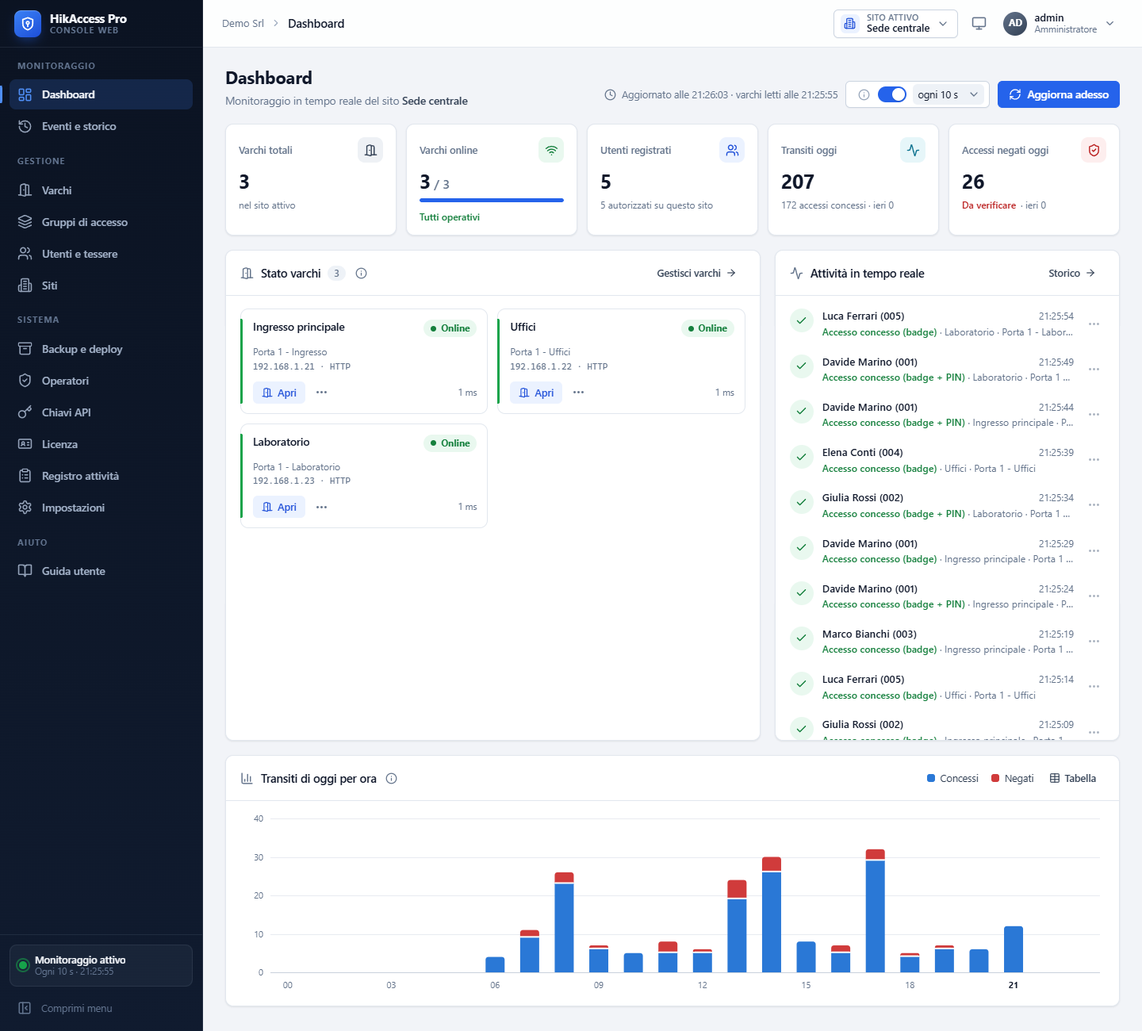
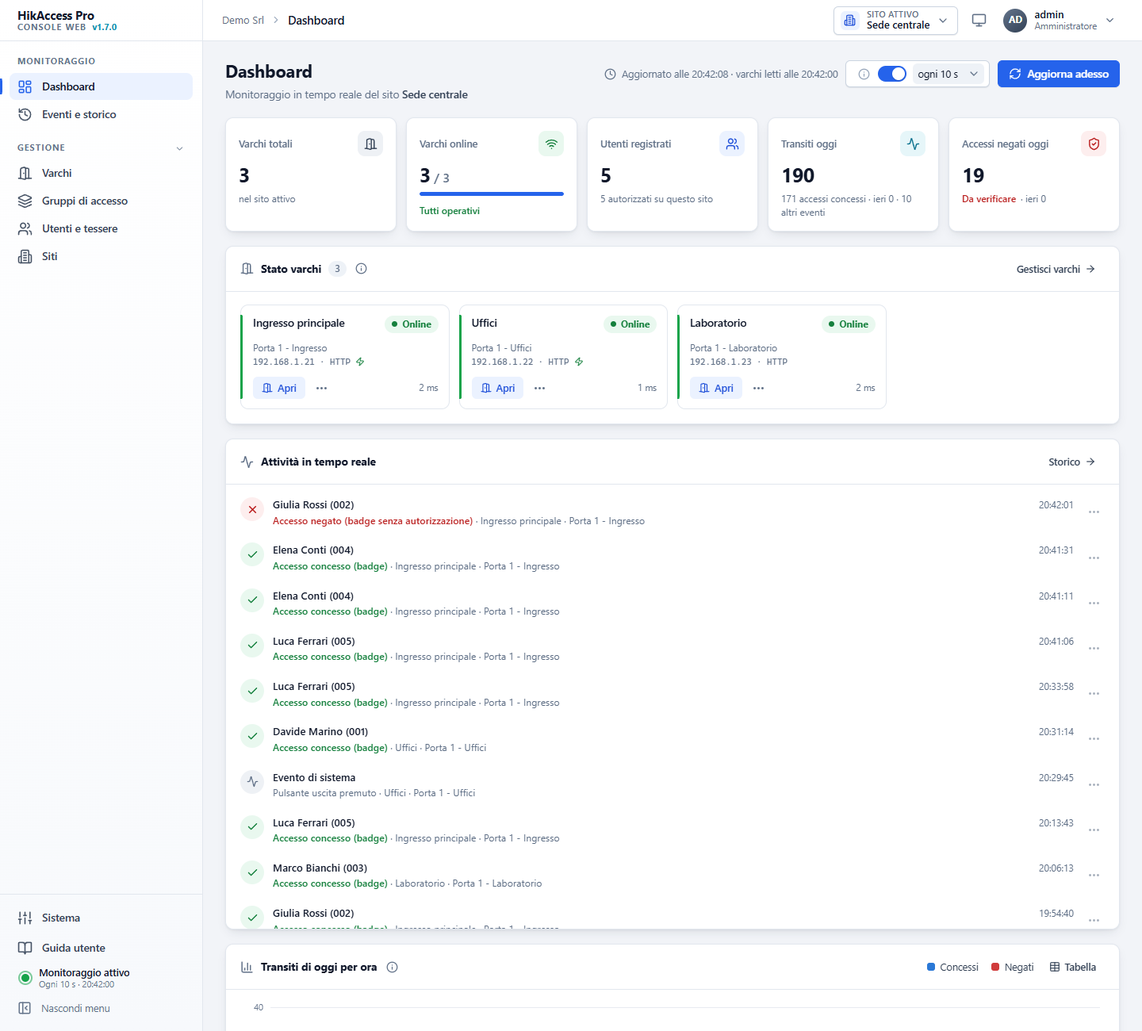
1.7.0: festività, notifiche Telegram, nuova grafica, Scarica e installa
Presentazione con notifiche Telegram e festività, nuove immagini (notifiche, festività, Sistema) e copertina,
licenza con le notifiche Telegram, nota sui marchi Hikvision e Telegram; guida utente 1.7.0.

diff --git a/docs/guida-utente.md b/docs/guida-utente.md
@@ -3,7 +3,7 @@
 [← Torna alla presentazione](../README.md) · [Scarica il setup](https://github.com/brn78/HikAccess-Pro-Web/releases/latest)
 
 > [!NOTE]
-> È la stessa guida che si apre nella console con <kbd>F1</kbd> (menu **Guida utente**), aggiornata alla versione **1.6.7**. Nella console le icone <b>(i)</b> accanto ai campi rimandano direttamente al paragrafo giusto.
+> È la stessa guida che si apre nella console con <kbd>F1</kbd> (menu **Guida utente**), aggiornata alla versione **1.7.0**. Nella console le icone <b>(i)</b> accanto ai campi rimandano direttamente al paragrafo giusto.
 
 ## Indice
 
@@ -18,6 +18,7 @@
 - [Dashboard](#dashboard)
 - [Eventi e storico](#eventi)
 - [Operazioni in background](#operazioni)
+- [Notifiche Telegram](#notifiche)
 - [Backup, ripristino e deploy](#backup)
 - [Sistema](#sistema)
 - [Profilo e sicurezza](#profilo)
@@ -74,7 +75,8 @@ Un amministratore può reimpostarla da **Operatori**. Se a non ricordare la pass
 
 ### <a id="interfaccia-menu"></a>Menu laterale e barra superiore
 
-- Il **menu laterale** è diviso in Monitoraggio, Gestione, Sistema (solo amministratori) e Aiuto. In alto, accanto a «Console web», c'è la **versione in uso**. Il gruppo **Sistema** resta chiuso: si apre con un clic sul titolo (⌄ nel menu compresso) e da solo quando sei su una delle sue pagine; un pallino sul titolo segnala una nuova versione. Il pulsante **Comprimi menu** in basso lo riduce alle sole icone; su telefono si apre con ☰. In fondo, il riquadro **Monitoraggio varchi** mostra se la scansione automatica è attiva e quando è avvenuta l'ultima. Agli amministratori, sopra, un riquadro segnala la [licenza](#sistema-licenza) quando serve attenzione: versione gratuita, varchi sospesi, licenza non valida o in scadenza.
+- Il **menu laterale** ha in alto **Monitoraggio** ( Dashboard, Eventi e storico) e **Gestione** ( Varchi, Gruppi, Utenti e tessere, Siti). Il gruppo Gestione si chiude con un clic sul titolo ⌄: il browser ricorda la scelta, e il gruppo si riapre da solo quando arrivi su una sua pagina. Accanto a «Console web» c'è la **versione in uso**.
+- In fondo al menu: **Sistema** ⚙ (solo amministratori) apre la [pagina con le funzioni di amministrazione](#sistema); un pallino sull'icona segnala una nuova versione o una [licenza](#sistema-licenza) da guardare (rosso se non è valida). Poi **Guida utente** 📖, la riga **Monitoraggio varchi** (scansione automatica attiva e ultima lettura; clic per la Dashboard) e **Nascondi menu** , che riduce il menu alle sole icone (con il monogramma «HA»). Il browser ricorda la scelta, a parte per le finestre strette, dove il menu parte ridotto; su telefono il menu si apre con ☰.
 - Nella **barra superiore** trovi il nome dell'impianto e della pagina, il contatore delle [operazioni in corso](#operazioni), il **selettore del sito attivo**, il pulsante del **tema** (chiaro, scuro o automatico come il sistema) e il menu con il tuo nome (profilo, impostazioni, guida, uscita).
 
 ### <a id="interfaccia-sito"></a>Il sito attivo
@@ -88,7 +90,7 @@ Dashboard, Varchi, Gruppi ed Eventi mostrano solo il sito attivo. La pagina Uten
 - Le schede di modifica si aprono in un **pannello laterale**; <kbd>Esc</kbd>, **Annulla** o un clic fuori le chiudono senza salvare. Se hai cambiato qualcosa, la console chiede prima conferma (**Chiudi senza salvare** oppure **Continua a modificare**), anche quando cambi pagina con il menu, con <kbd>F1</kbd> o con il tasto Indietro del browser.
 - **Selezione multipla** (pagine Utenti e Varchi, per amministratori e operatori): la casella all'inizio della riga la seleziona, quella nell'intestazione seleziona tutte le righe visualizzate; tenendo premuto <kbd>Maiusc</kbd> si seleziona l'intervallo dall'ultima casella toccata. Con almeno una riga scelta compare sopra la tabella la barra delle **operazioni sulle righe selezionate**, con il loro numero e **Deseleziona**. La selezione vale per le righe visualizzate: quelle tolte da un filtro o dalla ricerca escono dalla selezione, così un'operazione non tocca mai righe che non vedi.
 - Le conferme e gli esiti compaiono come **notifiche** in alto a destra; gli errori restano più a lungo. Alcune notifiche hanno un pulsante (**Vedi log**, **Dettagli**) per aprire il resoconto completo.
-- I testi di esito, dettaglio e diagnostica (per esempio l'esito di **Sincronizza orario** varco per varco) hanno in alto a destra il pulsante per copiarli negli appunti.
+- I testi di esito, dettaglio e diagnostica (per esempio l'esito di **Sincronizza orario** varco per varco) hanno in alto a destra il pulsante ⧉ per copiarli negli appunti.
 - I campi contrassegnati da \* sono obbligatori.
 
 ### <a id="interfaccia-scorciatoie"></a>Scorciatoie da tastiera
@@ -210,7 +212,7 @@ Ogni comando viene registrato nel [registro attività](#sistema-registro) con l'
 
 - **Diagnostica e test connessione** verifica il varco e mostra canale, seriale, firmware e le informazioni lette dal dispositivo: parametri della porta (tempo relè, funzione **prima tessera**), stato della porta, tessere registrate e stato degli [eventi in tempo reale](#varchi-tempo-reale) (da quando è aperto il collegamento, quanti eventi di accesso sono arrivati dal flusso e l'ora dell'ultimo; se il terminale manda nel flusso qualcosa che la console non riconosce, ne mostra l'inizio: copialo quando segnali il problema); se il varco non risponde, il motivo preciso dell'errore. Riabilita anche un tentativo dopo un rifiuto delle credenziali.
 - **Messaggi di errore dei dispositivi**: i codici di errore dell'SDK Hikvision e delle risposte ISAPI sono tradotti in italiano (es. «memoria utenti del dispositivo piena», «numero tessera già presente sul dispositivo»), con il codice originale tra parentesi quando serve all'assistenza.
-- **Sincronizza orologio con il server** imposta data e ora del dispositivo uguali a quelle del server; sui varchi HTTP imposta anche il **fuso orario con le regole dell'ora legale** (le versioni precedenti alla 1.6 scrivevano un fuso fisso, per cui d'estate il dispositivo restava indietro di un'ora). Un dispositivo che segue già un server NTP ed è in orario resta in NTP: si corregge solo il fuso. Un orologio sbagliato produce eventi con l'ora errata e può far rifiutare utenti con validità a date o fasce orarie: controllalo dopo un'interruzione di corrente. Il pulsante **Sincronizza orario** in alto nella pagina Varchi lo fa su tutti i varchi del sito in una volta: una notifica riassume l'esito e **Dettagli** mostra il risultato di ogni varco, da copiare con .
+- **Sincronizza orologio con il server** imposta data e ora del dispositivo uguali a quelle del server; sui varchi HTTP imposta anche il **fuso orario con le regole dell'ora legale** (le versioni precedenti alla 1.6 scrivevano un fuso fisso, per cui d'estate il dispositivo restava indietro di un'ora). Un dispositivo che segue già un server NTP ed è in orario resta in NTP: si corregge solo il fuso. Un orologio sbagliato produce eventi con l'ora errata e può far rifiutare utenti con validità a date o fasce orarie: controllalo dopo un'interruzione di corrente. Il pulsante **Sincronizza orario** in alto nella pagina Varchi lo fa su tutti i varchi del sito in una volta: una notifica riassume l'esito e **Dettagli** mostra il risultato di ogni varco, da copiare con ⧉.
 - Orologio, comandi porta, stato porta e diagnostica si mettono **in fila** con le altre richieste allo stesso controller (i DS-K2602T/K2604T ne servono una alla volta e una ricerca nel registro eventi può durare diversi secondi): la lettura degli eventi cede il passo e la richiesta aspetta il proprio turno invece di andare in timeout.
 - **Copia indirizzo IP** copia l'IP negli appunti, per aprire l'interfaccia web del terminale.
 
@@ -271,7 +273,21 @@ Fuori fascia la tessera viene rifiutata dal varco e l'evento compare tra gli acc
 - Sui controller l'orario di ogni gruppo occupa un **modello orario** numerato (dal 2 in su; il modello 1 è quello "sempre" di fabbrica): se l'impianto aveva modelli creati con iVMS-4200, quelli con lo stesso numero vengono sostituiti.
 
 > [!NOTE]
-> Le fasce seguono l'orologio del controller: se l'ora è sbagliata usa **Sincronizza orologio con il server** dal menu del varco. Le festività non sono gestite: nei giorni festivi valgono le fasce del giorno della settimana.
+> Le fasce seguono l'orologio del controller: se l'ora è sbagliata usa **Sincronizza orologio con il server** dal menu del varco.
+
+### <a id="gruppi-festivita"></a>Festività e chiusure
+
+Il pulsante **Festività** in alto nella pagina apre il **calendario delle festività**, unico per tutti i siti:
+
+- **Festività nazionali italiane**: calcolate da sole ogni anno (Capodanno, Epifania, Pasqua e lunedì dell'Angelo, 25 aprile, 1° maggio, 2 giugno, Ferragosto, San Francesco d'Assisi il 4 ottobre, Ognissanti, Immacolata, Natale e Santo Stefano);
+- **Santo patrono**: nome, giorno e mese della festa della località, ogni anno;
+- **Altre chiusure**: ponti, ferie aziendali o giorni singoli, dal giorno indicato a quello di fine compreso; con **Ogni anno** le stesse date si ripetono tutti gli anni.
+
+Nella scheda di un gruppo con **Giorni e fasce orarie**, la riga **Festività** dice se i membri restano fuori nei giorni del calendario (**Chiuso nelle festività**, attivo di partenza) oppure se in quei giorni valgono le fasce del giorno della settimana. Un gruppo **Sempre** entra anche nei festivi.
+
+- Sui controller le festività diventano **piani festivi** (numeri da 1) riuniti nel **gruppo festivo 1**, che il modello orario del gruppo richiama. Salvando il calendario vengono scritte subito, con l'esito in una notifica.
+- Si scrivono le **prossime ricorrenze** (al massimo 16 periodi; giorni consecutivi come Natale e Santo Stefano contano come uno). Ogni giorno la console sostituisce le festività passate con quelle dell'anno dopo.
+- L'elenco **Prossime festività sui varchi** nel calendario mostra le date effettivamente scritte.
 
 ## <a id="utenti"></a>Utenti, tessere e PIN
 
@@ -297,7 +313,7 @@ La scheda di una persona si apre sempre con i dati attuali del server, anche se 
 
 ### <a id="utenti-pin"></a>PIN
 
-Il **PIN tastiera** è un codice da 4 a 8 cifre usato sui terminali con tastierino. È il terminale, con la propria modalità di autenticazione (solo tessera, tessera + PIN, PIN...), a decidere se e quando richiederlo: la console si limita a inviarlo insieme alla persona. Il PIN è visibile solo ad amministratori e operatori (pulsante ).
+Il **PIN tastiera** è un codice da 4 a 8 cifre usato sui terminali con tastierino. È il terminale, con la propria modalità di autenticazione (solo tessera, tessera + PIN, PIN...), a decidere se e quando richiederlo: la console si limita a inviarlo insieme alla persona. Il PIN è visibile solo ad amministratori e operatori (pulsante 👁).
 
 ### <a id="utenti-validita"></a>Validità e accesso
 
@@ -424,7 +440,7 @@ La scheda **Archivio e manutenzione** mostra quanti eventi sono archiviati, lo s
 
 Gli invii ai varchi (utente, più utenti, gruppo, deploy, invio a varchi scelti), le eliminazioni, le revoche in sospeso e la ricezione dell'anagrafica sono eseguiti dal server **in background**: puoi continuare a lavorare, e in alto compare il contatore **operazioni in corso**. Al termine arriva una **notifica con l'esito** (verde se tutto è riuscito, gialla o rossa con gli errori, che resta visibile più a lungo) e le pagine aperte si aggiornano da sole.
 
-La **finestra dell'operazione** si apre solo quando la chiedi: con **Vedi log** nella notifica finale, con **Mostra** nell'avviso di avvio, dal contatore in alto mentre è in corso oppure dalle operazioni recenti. Mostra barra di avanzamento, contatori di riusciti ed errori e il **log**, una riga per persona e controller; il pulsante in alto a destra del log lo copia negli appunti, per esempio per inviarlo all'assistenza.
+La **finestra dell'operazione** si apre solo quando la chiedi: con **Vedi log** nella notifica finale, con **Mostra** nell'avviso di avvio, dal contatore in alto mentre è in corso oppure dalle operazioni recenti. Mostra barra di avanzamento, contatori di riusciti ed errori e il **log**, una riga per persona e controller; il pulsante ⧉ in alto a destra del log lo copia negli appunti, per esempio per inviarlo all'assistenza.
 
 Le operazioni verso controller diversi procedono in parallelo; quelle verso lo stesso controller si mettono in fila, e la lettura degli eventi cede il passo alle scritture. Ogni persona viene riletta dall'anagrafica al momento di scriverla: una modifica fatta mentre l'operazione è in corso non viene sovrascritta con dati vecchi, e una persona eliminata nel frattempo non viene riscritta.
 
@@ -433,6 +449,25 @@ Le operazioni verso controller diversi procedono in parallelo; quelle verso lo s
 - Le operazioni concluse restano consultabili, con il loro log, in **Backup e deploy → Operazioni recenti** (le ultime 40 dall'avvio del server). Gli operatori vedono le proprie, gli amministratori tutte.
 
 Un varco offline durante un'operazione viene segnalato come errore in quella riga: la console conserva comunque la configurazione corretta, e basta ripetere l'invio (o un deploy) quando il varco torna raggiungibile. Le **revoche** non riuscite (tessere tolte, persone disabilitate o eliminate) non dipendono da te: restano [in sospeso](#utenti-revoche) e si ritentano da sole.
+
+## <a id="notifiche"></a>Notifiche Telegram
+
+Gli operatori possono ricevere sul telefono, con **Telegram**, un messaggio per gli eventi che scelgono: accessi negati, porte forzate, porte aperte troppo a lungo, allarmi e manomissioni, varchi non raggiungibili, comandi porta da remoto, anche accessi concessi. Funziona con un bot della console, una chat collegata per ogni operatore e le preferenze di ciascuno.
+
+> [!NOTE]
+> Le notifiche Telegram sono una funzione della [licenza](#sistema-licenza), come il servizio REST: non sono comprese nella versione gratuita. Senza, il bot resta configurato ma non legge né invia messaggi.
+
+### <a id="notifiche-telegram"></a>Configurare il bot e collegare la chat
+
+1. **Il bot** (una volta, un amministratore): in Telegram apri **@BotFather**, scrivi `/newbot` e scegli nome e nome utente (deve finire con «bot»). Copia il **token** che ti risponde in **Sistema → Impostazioni**, riquadro **Notifiche Telegram**, e salva: la console chiede a Telegram il nome del bot e conserva il token cifrato. Facoltativo: l'**indirizzo della console da fuori** (es. quello di KeenDNS) aggiunge a ogni messaggio il collegamento «Apri nella console».
+2. **La chat** (ogni operatore, per sé): **Profilo e sicurezza**, riquadro **Notifiche Telegram**, **Collega Telegram**. Inquadra il QR con il telefono (o apri il link), premi **Avvia** nella chat del bot e scrivi il **PIN di 6 cifre** mostrato nella console. Il codice vale 10 minuti e una volta sola; il PIN non è nel QR né nel link, e tre PIN sbagliati annullano il collegamento.
+3. **Che cosa ricevere**: **Quali eventi** (caselle), **Su quali varchi** (tutti o solo alcuni, di tutti i siti) e **Per quali persone** (tutte o solo alcune: vale per gli accessi concessi e negati, mentre porte forzate, allarmi e varchi non raggiungibili arrivano comunque). **Salva le notifiche**, poi **Mandami un messaggio di prova**.
+
+- Il messaggio arriva appena il varco registra l'evento: tipo, varco, persona e tessera, data e ora. Più di 4 eventi insieme arrivano in un solo messaggio riassuntivo. Gli eventi recuperati dal registro dopo un fermo del server non vengono notificati.
+- **Varco non raggiungibile**: dopo un minuto senza risposta del controller, e un secondo messaggio quando torna raggiungibile.
+- Gli amministratori impostano le notifiche degli altri da **Sistema → Operatori**, menu dell'operatore, **Notifiche Telegram**.
+- Nella chat, `/stop` scollega la chat; si scollega da sola anche se blocca il bot. Gli account disabilitati non ricevono messaggi.
+- Il server legge i messaggi del bot ogni 25 secondi circa («long polling»): non servono porte aperte sul router né HTTPS, solo l'accesso a Internet verso `api.telegram.org`. Il bot va usato solo dalla console: se un altro programma legge i suoi messaggi, la console lo segnala.
 
 ## <a id="backup"></a>Backup, ripristino e deploy
 
@@ -469,6 +504,8 @@ Oltre all'esportazione, includi nei backup del server l'intera cartella dati (ve
 
 ## <a id="sistema"></a>Sistema
 
+La voce **Sistema** ⚙ in fondo al menu (solo amministratori) apre una pagina a schede: **Impostazioni**, **Operatori**, **Licenza**, **Backup e deploy**, **Chiavi API** e **Registro attività**. In cima, quando serve, gli avvisi: nuova versione disponibile, licenza non valida o in scadenza, varchi sospesi. Sulle pagine di amministrazione la voce Sistema resta evidenziata.
+
 ### <a id="sistema-operatori"></a>Operatori
 
 **Operatori**: gli account della console. Per ogni account: nome utente (non modificabile), nome e cognome, [ruolo](#ruoli), stato abilitato/disabilitato, ultimo accesso con indirizzo, data dell'ultimo cambio password.
@@ -477,6 +514,7 @@ Oltre all'esportazione, includi nei backup del server l'intera cartella dati (ve
 - **Reimposta password**: per chi l'ha dimenticata; le sue sessioni aperte vengono chiuse.
 - **Disabilita account**: blocca l'accesso senza cancellare lo storico delle operazioni; preferibile all'eliminazione per chi lascia l'azienda.
 - **Disattiva verifica in due passaggi**: per chi ha perso il telefono e i codici di recupero; l'operatore potrà riattivarla dal suo profilo. La colonna **Due passaggi** mostra chi l'ha attiva.
+- **Notifiche Telegram** ✈: quali eventi riceve l'operatore sul telefono, su quali varchi e per quali persone, e lo stato della sua chat (vedi [Notifiche Telegram](#notifiche-telegram)). Collegare la chat spetta all'operatore, dal suo profilo; da qui la si può scollegare.
 - **Elimina account**: rimuove l'account; il registro attività conserva le operazioni già eseguite.
 - Il proprio account non può disabilitarsi né cambiare ruolo da qui; la propria password si cambia da **Profilo e sicurezza**. Deve restare almeno un amministratore abilitato.
 
@@ -521,17 +559,17 @@ e in `secrets.yaml` la riga `hikaccess_api: "Bearer hap_…"` con la chiave. Dop
 
 ### <a id="sistema-licenza"></a>Licenza e attivazione
 
-**Licenza** (solo amministratori). Senza chiave di attivazione la console è la **versione gratuita**: **1 sito** e **2 varchi**, senza il [servizio REST](#sistema-chiavi-api); tutte le altre funzioni (utenti, tessere, PIN, gruppi, eventi, operatori, backup, accesso remoto) sono complete. Una **licenza** amplia siti e varchi e può comprendere il servizio REST; può essere senza scadenza oppure a tempo, come la prova di 30 giorni.
+**Licenza** (solo amministratori). Senza chiave di attivazione la console è la **versione gratuita**: **1 sito** e **2 varchi**, senza il [servizio REST](#sistema-chiavi-api) e senza le [notifiche Telegram](#notifiche-telegram); tutte le altre funzioni (utenti, tessere, PIN, gruppi, festività, eventi, operatori, backup, accesso remoto) sono complete. Una **licenza** amplia siti e varchi e può comprendere il servizio REST e le notifiche Telegram; può essere senza scadenza oppure a tempo, come la prova di 30 giorni.
 
 - **Stato della licenza**: versione gratuita oppure licenza attivata, con intestatario, numero, limiti e scadenza; sotto, siti e varchi in uso rispetto a quelli consentiti.
 - **Codice macchina**: identifica il server, e la chiave di attivazione vale solo per quel codice. Non cambia con riavvii, aggiornamenti, nome o indirizzo IP del server; cambia se reinstalli Windows o sposti il programma su un altro computer.
-- **Richiedi l'attivazione**: indica la ragione sociale (sarà l'intestatario della licenza), referente, telefono, un'eventuale email per la risposta, se chiedi una licenza o una prova di 30 giorni, quanti siti e varchi ti servono e se ti serve il servizio REST. **Scrivi l'email** apre il programma di posta con la richiesta pronta per **b.leonardi78@gmail.com**, già completa di codice macchina, versione e dati del server. Con la posta nel browser usa **Copia la richiesta** e incollala in un nuovo messaggio a quell'indirizzo.
+- **Richiedi l'attivazione**: indica la ragione sociale (sarà l'intestatario della licenza), referente, telefono, un'eventuale email per la risposta, se chiedi una licenza o una prova di 30 giorni, quanti siti e varchi ti servono e se ti servono il servizio REST e le notifiche Telegram. **Scrivi l'email** apre il programma di posta con la richiesta pronta per **b.leonardi78@gmail.com**, già completa di codice macchina, versione e dati del server. Con la posta nel browser usa **Copia la richiesta** e incollala in un nuovo messaggio a quell'indirizzo.
 - **Chiave di attivazione**: incolla la chiave ricevuta (inizia con `HAP1-`; va bene anche il testo dell'intera email) e premi **Attiva**. La console controlla che sia autentica, emessa per questo server e non scaduta, e applica subito i nuovi limiti. Nella stessa casella si inserisce la chiave nuova di un ampliamento o di un rinnovo.
 - **Rimuovi la licenza**: si torna alla versione gratuita, per esempio prima di trasferire la licenza su un altro server.
 
 **Oltre i limiti.** Senza la licenza adatta non si aggiungono siti o varchi oltre quelli consentiti e non si creano chiavi API: la console lo segnala con il collegamento **Vai alla pagina Licenza**. Se i varchi configurati sono più di quelli consentiti (licenza scaduta o rimossa, ripristino di un backup più grande), restano in uso i primi in ordine di ID dei primi siti e gli altri diventano **sospesi**: restano in elenco, ma non vengono monitorati, non ricevono comandi né utenti e non si leggono tessere da lì. Per sicurezza la revoca delle tessere tolte e l'eliminazione degli utenti raggiungono anche i varchi sospesi.
 
-Alla scadenza la console torna da sola ai limiti della versione gratuita, senza perdere configurazione ed eventi; il riquadro nel menu laterale avvisa gli amministratori negli ultimi 30 giorni. Attivazioni, chiavi rifiutate e rimozioni finiscono nel [registro attività](#sistema-registro) (categoria **Licenza**).
+Alla scadenza la console torna da sola ai limiti della versione gratuita, senza perdere configurazione ed eventi; il pallino sulla voce Sistema e la pagina Sistema avvisano gli amministratori negli ultimi 30 giorni. Attivazioni, chiavi rifiutate e rimozioni finiscono nel [registro attività](#sistema-registro) (categoria **Licenza**).
 
 > [!NOTE]
 > **Trasferire la licenza** su un altro server, o dopo aver reinstallato Windows: dalla pagina Licenza del server nuovo invia una richiesta e scrivi nelle note che si tratta di un trasferimento. La chiave nuova sarà emessa per il nuovo codice macchina.
@@ -547,8 +585,9 @@ Alla scadenza la console torna da sola ai limiti della versione gratuita, senza 
 - **Chiusura della sessione per inattività**: da 15 minuti a 7 giorni. Per un monitor sempre acceso usa un account in sola lettura e una durata lunga.
 - **Browser di fiducia dopo la verifica in due passaggi**: per quanti giorni (da 1 a 90, oppure "Mai") un browser segnato come di fiducia non richiede il codice OTP, e se la fiducia decade quando cambia l'indirizzo IP del browser. Vedi [Browser di fiducia](#profilo-2fa-fiducia).
 - **Accesso remoto**: i **proxy attendibili** e la verifica **Questa connessione**. Vedi [Accesso remoto e proxy](#sistema-accesso-remoto).
+- **Notifiche Telegram** ✈: il bot della console (token creato con @BotFather) e l'indirizzo della console da fuori per il collegamento «Apri nella console». Vedi [Notifiche Telegram](#notifiche-telegram).
 - **Informazioni di sistema**: versione, licenza, nome del server, avvio e tempo di attività, modalità (servizio di Windows o finestra), disponibilità dell'SDK Hikvision, cartella dati, conteggi della configurazione, ultima scansione e ultima pulizia. Sotto, il **grafico a ciambella del disco** della cartella dati: archivio eventi (passaggi e registro attività), altri dati della console (configurazione, backup, aggiornamenti caricati), altri file e programmi e, al centro, la percentuale di spazio libero; il collegamento porta all'archivio in Eventi e storico.
-- **Aggiornamento del programma**: versione installata, avviso delle nuove versioni con le novità e il collegamento per scaricare il setup, esito dell'ultimo aggiornamento e installazione di una nuova versione caricando il setup. L'interruttore **Avvisa quando esce una nuova versione** si salva con le altre impostazioni. Vedi [Aggiornare e disinstallare](#server-aggiornamento) e [Avviso delle nuove versioni](#server-avviso-versioni).
+- **Aggiornamento del programma**: versione installata, avviso delle nuove versioni con le novità, **Scarica e installa**, esito dell'ultimo aggiornamento e installazione di una nuova versione caricando il setup. L'interruttore **Avvisa quando esce una nuova versione** si salva con le altre impostazioni. Vedi [Aggiornare e disinstallare](#server-aggiornamento) e [Avviso delle nuove versioni](#server-avviso-versioni).
 
 ### <a id="sistema-accesso-remoto"></a>Accesso remoto e proxy
 
@@ -647,7 +686,16 @@ Per aggiornare esegui il nuovo setup sopra l'installazione esistente: il servizi
 
 Il setup di ogni versione si scarica dalla [pagina delle versioni](https://github.com/brn78/HikAccess-Pro-Web/releases) su GitHub; la console avvisa gli amministratori quando ne esce una nuova (vedi [Avviso delle nuove versioni](#server-avviso-versioni)).
 
-**Dalla console**: **Impostazioni → Aggiornamento del programma**, scegli il nuovo setup (`HikAccessWeb-<versione>-Setup.exe`) e conferma con la tua password. Il server controlla che sia il setup di HikAccess Pro Web, che la versione non sia precedente a quella installata e che il file sia **identico a quello pubblicato su GitHub** per quella versione (impronta SHA-256), poi lo installa. Se il server non raggiunge GitHub la verifica non è possibile e l'aggiornamento dalla console viene rifiutato: esegui il setup direttamente sul server, come amministratore di Windows. Il servizio resta fermo per circa un minuto e la console si ricarica da sola con la nuova versione. Per sicurezza, dato che il setup gira con i privilegi di sistema:
+**Scarica e installa**: quando esce una nuova versione, **Sistema → Impostazioni → Aggiornamento del programma** mostra il pulsante **Scarica e installa** ⬇. Confermi con la tua password e il server:
+
+1. scarica il setup dalla **pagina ufficiale** del programma su GitHub, con una barra di avanzamento;
+2. controlla che il file sia **completo** e **identico** a quello pubblicato (impronta SHA-256 indicata da GitHub), che sia il setup di HikAccess Pro Web e che la versione sia proprio quella annunciata;
+3. salva una **copia della configurazione** (casella attiva di partenza) nella cartella dati, sottocartella `backups`;
+4. avvia il setup: il servizio resta fermo per circa un minuto e la pagina si ricarica da sola con la nuova versione.
+
+Se uno dei controlli non va, il setup non parte e il motivo compare nella finestra e nel [registro attività](#sistema-registro). Riaprendo la pagina durante un aggiornamento, l'avanzamento riprende da dove era.
+
+**Caricando il setup**: in alternativa (per esempio se il server non raggiunge GitHub), scarica il setup sul tuo PC, scegli il file (`HikAccessWeb-<versione>-Setup.exe`) nello stesso riquadro e conferma con la tua password. Il server controlla che sia il setup di HikAccess Pro Web, che la versione non sia precedente a quella installata e che il file sia **identico a quello pubblicato su GitHub** per quella versione (impronta SHA-256), poi lo installa. Se il server non raggiunge GitHub la verifica non è possibile e l'aggiornamento dalla console viene rifiutato: esegui il setup direttamente sul server, come amministratore di Windows. Il servizio resta fermo per circa un minuto e la console si ricarica da sola con la nuova versione. Per sicurezza, dato che il setup gira con i privilegi di sistema:
 
 - solo gli **amministratori**, con la conferma della password;
 - solo da un PC della **rete locale** del server (o dalla VPN), aprendo la console con l'indirizzo interno: non tramite KeenDNS o un altro proxy. Se hai aperto la console in un altro modo, il riquadro mostra l'indirizzo interno come collegamento e il pulsante **Apri la console locale**, che apre in una nuova scheda la console locale direttamente su questo riquadro (dopo l'accesso, se serve);
@@ -659,11 +707,11 @@ L'esito dell'ultimo aggiornamento resta in Impostazioni; il log del setup è nel
 
 Una volta al giorno il server chiede a GitHub qual è l'ultima versione pubblicata di HikAccess Pro Web e la confronta con quella installata. Quando ne esce una nuova, gli **amministratori** vedono:
 
-- un **pallino** sulla voce **Impostazioni** del menu, finché la versione nuova non viene installata;
+- un **pallino** sulla voce **Sistema** del menu e un avviso in cima alla pagina Sistema, finché la versione nuova non viene installata;
 - un avviso al primo accesso, una volta per versione e per browser, con il collegamento **Vedi le novità**;
-- nel riquadro **Aggiornamento del programma**, la versione nuova con la data di pubblicazione, le **novità** e i pulsanti **Scarica il setup** e **Pagina della versione**, che aprono GitHub in un'altra scheda.
+- nel riquadro **Aggiornamento del programma**, la versione nuova con la data di pubblicazione, le **novità** e i pulsanti **Scarica e installa**, **Scarica il setup** e **Pagina della versione** (gli ultimi due aprono GitHub in un'altra scheda).
 
-Nulla si installa da solo: scarichi il setup sul tuo PC e lo carichi nello stesso riquadro, come descritto sopra. Sotto il pulsante trovi l'impronta **SHA-256** del file pubblicato, per chi vuole confrontarla con quella del file scaricato (in PowerShell: `Get-FileHash HikAccessWeb-<versione>-Setup.exe`).
+Nulla si installa da solo: l'installazione parte solo con **Scarica e installa** o caricando il setup, come descritto sopra. Sotto il pulsante trovi l'impronta **SHA-256** del file pubblicato, per chi vuole confrontarla con quella del file scaricato (in PowerShell: `Get-FileHash HikAccessWeb-<versione>-Setup.exe`).
 
 Il riquadro mostra anche quando è stato fatto l'ultimo controllo; **Controlla ora** lo ripete subito. Operatori e account in sola lettura non vedono l'avviso. La prima segnalazione di ogni versione finisce nel [registro attività](#sistema-registro) (categoria **Sistema**, «Nuova versione disponibile»).
 
@@ -912,6 +960,7 @@ Apri il Visualizzatore eventi di Windows, registro Applicazione, origine **HikAc
 - **Scansione**: Interrogazione periodica dei varchi da parte del server: stato online/offline e nuovi eventi.
 - **Eventi in tempo reale**: Collegamento permanente con il controller, che invia ogni passaggio appena avviene (HTTP: flusso di notifiche; SDK: armamento).
 - **Revoca in sospeso**: Tessera o persona da togliere da un controller che non rispondeva: la console la ritenta finché non riesce.
+- **Bot di Telegram**: Account automatico di Telegram creato con @BotFather: la console lo usa per inviare le notifiche agli operatori che hanno collegato la loro chat.
 - **Prima tessera (First Card)**: Funzione del controller per cui il primo badge abilitato lascia la porta sempre aperta (o abilita le altre tessere) fino a un nuovo passaggio o a un orario.
 - **Punto di ripresa**: Data e ora dell'ultimo evento letto da un controller: la scansione successiva riparte da lì, senza saltare eventi.
 - **Recupero eventi**: Lettura degli eventi persi durante un fermo del server, a partire dall'ultimo archiviato.

diff --git a/README.md b/README.md
@@ -6,6 +6,7 @@
   <a href="https://github.com/brn78/HikAccess-Pro-Web/releases/latest"><img alt="Ultima versione" src="https://img.shields.io/github/v/release/brn78/HikAccess-Pro-Web?label=versione&color=2563eb"></a>
   <img alt="Windows 10, 11 e Server 2016 o successivi" src="https://img.shields.io/badge/Windows-10%20%7C%2011%20%7C%20Server%202016%2B-0078D4?logo=windows&logoColor=white">
   <img alt="Hikvision ISAPI e SDK" src="https://img.shields.io/badge/Hikvision-ISAPI%20%7C%20SDK-E3001B">
+  <img alt="Notifiche Telegram" src="https://img.shields.io/badge/notifiche-Telegram-26A5E4">
   <img alt="Versione gratuita: 1 sito e 2 varchi" src="https://img.shields.io/badge/versione%20gratuita-1%20sito%20%C2%B7%202%20varchi-16A34A">
   <img alt="Interfaccia in italiano" src="https://img.shields.io/badge/lingua-italiano-009246">
 </p>
@@ -23,8 +24,8 @@
 ---
 
 **HikAccess Pro Web** gestisce il controllo accessi **Hikvision** di una o più sedi da un'unica console web: varchi,
-gruppi di accesso, utenti con tessere Mifare e PIN, comandi delle porte, monitoraggio in tempo reale e storico degli
-eventi. Si installa su un PC o un server Windows della rete, gira come servizio e si usa da qualsiasi browser, dal PC,
+gruppi di accesso con fasce orarie e festività, utenti con tessere Mifare e PIN, comandi delle porte, monitoraggio in
+tempo reale, storico degli eventi e notifiche Telegram. Si installa su un PC o un server Windows della rete, gira come servizio e si usa da qualsiasi browser, dal PC,
 dal tablet o dal telefono, con account personali e ruoli.
 
 Funziona anche su reti isolate, senza Internet e senza abbonamenti cloud: configurazione ed eventi restano sul tuo server.
@@ -42,6 +43,10 @@ Funziona anche su reti isolate, senza Internet e senza abbonamenti cloud: config
 **🏢 Multisito**<br>
 Più sedi in una sola console, ognuna con i suoi varchi e gruppi di accesso, anche con giorni e fasce orarie; gli
 utenti sono unici per tutto l'impianto.
+
+**📅 Festività**<br>
+Festività nazionali calcolate da sole (anche Pasqua), il **santo patrono** della località e le chiusure aziendali:
+i gruppi con fasce orarie restano chiusi in quei giorni, direttamente sui controller.
 
 **🚪 Varchi Hikvision**<br>
 Terminali e controller via HTTP/ISAPI oppure con l'SDK Hikvision sulla porta 8000, anche multi-porta (per esempio i
@@ -64,6 +69,11 @@ anche con la console chiusa: dashboard, accessi negati, storico degli eventi con
 Account personali con ruoli (amministratore, operatore, sola lettura), verifica in due passaggi, blocco dei tentativi
 errati e registro attività di ogni operazione.
 
+**🔔 Notifiche Telegram**<br>
+Ogni operatore collega la sua chat con un QR e un PIN e sceglie cosa ricevere: accessi negati, porta forzata o aperta
+troppo a lungo, allarmi, varchi non raggiungibili, solo per alcuni varchi o alcune persone. Nessuna porta da aprire sul
+router. *Con licenza.*
+
 **🏠 Home Assistant e domotica**<br>
 Servizio REST con chiavi API per aprire i varchi da Home Assistant o da altri sistemi, con varchi consentiti e
 scadenza per ogni chiave. *Con licenza.*
@@ -74,7 +84,7 @@ attendibili.
 
 **⚙ Pensato per il server**<br>
 Servizio di Windows con avvio automatico e icona di stato, backup e ripristino, invio di tutti gli utenti a tutti i
-varchi, aggiornamento dalla console con l'avviso quando esce una nuova versione.
+varchi, avviso quando esce una nuova versione e aggiornamento in un clic con **Scarica e installa**.
 
 </td>
 </tr>
@@ -92,12 +102,19 @@ varchi, aggiornamento dalla console con l'avviso quando esce una nuova versione.
 <td align="center"><img src="docs/immagini/chiavi-api.png" alt="Chiavi API"><br><b>Chiavi API</b>: endpoint pronti per Home Assistant</td>
 </tr>
 <tr>
-<td align="center"><img src="docs/immagini/dashboard-chiaro.png" alt="Dashboard con il tema chiaro"><br><b>Tema chiaro o scuro</b>, anche automatico</td>
-<td align="center"><img src="docs/immagini/accesso.png" alt="Pagina di accesso"><br><b>Accesso protetto</b>, con verifica in due passaggi</td>
+<td align="center"><img src="docs/immagini/notifiche.png" alt="Notifiche Telegram nel profilo dell'operatore"><br><b>Notifiche Telegram</b>: eventi, varchi e persone per ogni operatore</td>
+<td align="center"><img src="docs/immagini/festivita.png" alt="Calendario delle festività"><br><b>Festività</b>: nazionali, santo patrono e chiusure</td>
 </tr>
 <tr>
+<td align="center"><img src="docs/immagini/dashboard-chiaro.png" alt="Dashboard con il tema chiaro"><br><b>Tema chiaro o scuro</b>, anche automatico</td>
+<td align="center"><img src="docs/immagini/sistema.png" alt="Pagina Sistema"><br><b>Sistema</b>: impostazioni, operatori, licenza e backup</td>
+</tr>
+<tr>
+<td align="center"><img src="docs/immagini/accesso.png" alt="Pagina di accesso"><br><b>Accesso protetto</b>, con verifica in due passaggi</td>
 <td align="center"><img src="docs/immagini/guida.png" alt="Guida utente nella console"><br><b>Guida integrata</b>: <kbd>F1</kbd> da qualsiasi pagina</td>
-<td align="center"><img src="docs/immagini/mobile.png" alt="Dashboard sul telefono" width="46%"><br><b>Anche dal telefono</b></td>
+</tr>
+<tr>
+<td colspan="2" align="center"><img src="docs/immagini/mobile.png" alt="Dashboard sul telefono" width="23%"><br><b>Anche dal telefono</b></td>
 </tr>
 </table>
 
@@ -124,14 +141,15 @@ il runtime .NET: non serve installare altro.
 3. **Aggiungi i varchi** da *Varchi → Aggiungi varco*: indirizzo IP, utente e password del dispositivo.
 4. **Carica gli utenti**: riceverli dai varchi o inserirli a mano; tessere e permessi arrivano da soli ai dispositivi.
 
-Per aggiornare basta caricare il nuovo setup da *Impostazioni → Aggiornamento del programma*: dati e account restano.
-Quando esce una nuova versione la console avvisa gli amministratori, con le novità e il collegamento per scaricarla.
+Per aggiornare basta premere **Scarica e installa** in *Sistema → Impostazioni → Aggiornamento del programma*: il
+server scarica il setup da qui, ne controlla l'impronta, salva una copia della configurazione e lo installa; dati,
+account e licenza restano. Quando esce una nuova versione la console avvisa gli amministratori, con le novità.
 Tutti i dettagli sono nella [guida utente](docs/guida-utente.md#server).
 
 ## 🔑 Versione gratuita e licenza
 
-HikAccess Pro Web si usa **gratis e senza scadenza** con un impianto piccolo. Per più sedi o varchi, o per collegare
-Home Assistant, serve una licenza.
+HikAccess Pro Web si usa **gratis e senza scadenza** con un impianto piccolo. Per più sedi o varchi, per collegare
+Home Assistant o per le notifiche Telegram serve una licenza.
 
 | | Versione gratuita | Con licenza |
 |---|:---:|:---:|
@@ -139,6 +157,7 @@ Home Assistant, serve una licenza.
 | Varchi | 2 | secondo la licenza, anche illimitati |
 | Utenti, tessere, PIN, gruppi, eventi, operatori, backup, accesso da fuori | ✓ | ✓ |
 | Servizio REST per Home Assistant (chiavi API) | — | ✓ |
+| Notifiche Telegram agli operatori | — | ✓ |
 | Scadenza | nessuna | nessuna, oppure a tempo (per esempio la prova di 30 giorni) |
 
 **Come si attiva**
@@ -191,8 +210,18 @@ raccogliere gli eventi: quando torna acceso recupera anche i passaggi avvenuti n
 <details>
 <summary><b>Serve una connessione a Internet?</b></summary>
 <br>
-No. Server e varchi lavorano nella rete locale. Internet serve solo se vuoi usare la console da fuori, tramite un proxy
-HTTPS o una VPN, e per inviare la richiesta di attivazione.
+No. Server e varchi lavorano nella rete locale. Internet serve solo se vuoi usare la console da fuori (tramite un proxy
+HTTPS o una VPN), per le notifiche Telegram, per l'aggiornamento con *Scarica e installa* e per inviare la richiesta di
+attivazione.
+</details>
+
+<details>
+<summary><b>Come funzionano le notifiche Telegram?</b></summary>
+<br>
+Si crea un bot con @BotFather e se ne incolla il token in <b>Sistema → Impostazioni</b>. Ogni operatore collega poi la
+sua chat dal proprio <b>Profilo</b>, inquadrando un QR e scrivendo al bot il PIN mostrato, e sceglie quali eventi, varchi
+e persone gli interessano; gli amministratori possono impostarlo anche per gli altri. È il server a contattare Telegram,
+quindi non serve aprire porte sul router. Con <code>/stop</code> nella chat si scollega.
 </details>
 
 <details>
@@ -212,9 +241,10 @@ richiesta indicando nelle note che si tratta di un trasferimento.
 <details>
 <summary><b>Come si aggiorna?</b></summary>
 <br>
-Da <b>Impostazioni → Aggiornamento del programma</b> carichi il nuovo setup e confermi con la tua password: il
-servizio si ferma per circa un minuto e la console si ricarica da sola. In alternativa si esegue il nuovo setup sul
-server. Dati, account e licenza restano.
+Da <b>Sistema → Impostazioni → Aggiornamento del programma</b> premi <b>Scarica e installa</b> e confermi con la tua
+password: il server scarica il setup, ne verifica l'impronta, salva una copia della configurazione e lo installa; il
+servizio si ferma per circa un minuto e la console si ricarica da sola. Si può anche caricare un setup scaricato a mano,
+oppure eseguirlo sul server. Dati, account e licenza restano.
 </details>
 
 <details>
@@ -222,7 +252,7 @@ server. Dati, account e licenza restano.
 <br>
 Dalla versione 1.4.0 lo dice la console: una volta al giorno il server chiede a GitHub qual è l'ultima versione
 pubblicata e, se è più recente di quella installata, gli amministratori vedono un pallino sulla voce
-<b>Impostazioni</b> e, nel riquadro dell'aggiornamento, le novità e il pulsante per scaricare il setup. Nulla si
+<b>Sistema</b> e, nel riquadro dell'aggiornamento, le novità e il pulsante <b>Scarica e installa</b>. Nulla si
 installa da solo e non viene inviato alcun dato dell'impianto; l'avviso si può disattivare dalle impostazioni.
 </details>
 
@@ -235,6 +265,6 @@ Licenze, prove e assistenza: **b.leonardi78@gmail.com**. La richiesta di attivaz
 
 <p align="center">
   <sub>© 2026 Bruno Leonardi · Tutti i diritti riservati.<br>
-  Hikvision è un marchio dei rispettivi proprietari. HikAccess Pro Web è un prodotto indipendente, non affiliato a Hikvision.<br>
+  Hikvision e Telegram sono marchi dei rispettivi proprietari. HikAccess Pro Web è un prodotto indipendente, non affiliato a Hikvision né a Telegram.<br>
   Le immagini mostrano dati dimostrativi.</sub>
 </p>

diff --git a/CHANGELOG.md b/CHANGELOG.md
@@ -3,6 +3,29 @@
 Il setup di ogni versione è nella pagina [Releases](https://github.com/brn78/HikAccess-Pro-Web/releases).
 Per aggiornare basta caricarlo da *Impostazioni → Aggiornamento del programma*: dati, account e licenza restano.
 
+## 1.7.0 · 15 ottobre 2026
+
+- **Festività** (*Gruppi di accesso → Festività*): un calendario per tutti i siti con le festività nazionali italiane
+  calcolate da sole (anche Pasqua e Lunedì dell'Angelo, San Francesco il 4 ottobre), il **santo patrono** della
+  località (nome, giorno e mese) e altre chiusure come ponti e ferie, una volta o ogni anno. Nei gruppi con fasce
+  orarie l'opzione **Chiuso nelle festività** tiene chiusi i varchi in quei giorni: le date vengono scritte sui
+  controller e aggiornate da sole ogni anno.
+- **Notifiche Telegram** (con licenza): il bot si configura in *Sistema → Impostazioni*; ogni operatore collega la
+  sua chat dal *Profilo* con un QR e un PIN e sceglie quali eventi ricevere (accessi negati, porta forzata, porta
+  aperta troppo a lungo, allarmi e manomissioni, varco non raggiungibile, comandi da remoto, accessi concessi), su
+  quali varchi e per quali persone. Gli amministratori le impostano anche per gli altri dalla pagina *Operatori*.
+  Nessuna porta da aprire sul router: è il server a contattare Telegram.
+- **Nuova grafica**: colori e ombre più morbidi, barra laterale chiara nel tema chiaro con il gruppo *Gestione*
+  richiudibile e la voce **Sistema** in fondo, che apre una pagina a schede con impostazioni, operatori, licenza,
+  backup, chiavi API e registro attività, più gli avvisi da guardare (nuova versione, licenza).
+- **Scarica e installa** (*Sistema → Impostazioni → Aggiornamento del programma*): il server scarica il setup da
+  GitHub, ne controlla dimensione, impronta e versione, salva una copia della configurazione e lo installa; la console
+  si ricarica da sola. Resta possibile caricare un setup scaricato a mano.
+- **Licenza**: le notifiche Telegram si aggiungono al servizio REST tra le funzioni della licenza e si possono chiedere
+  nella richiesta di attivazione. Le licenze già emesse restano valide.
+- **Guida utente** con l'icona di ogni capitolo e le parti nuove su festività, notifiche Telegram, pagina Sistema e
+  Scarica e installa.
+
 ## 1.6.7 · 14 ottobre 2026
 
 - **Esportazione di un solo sito** (*Backup e deploy* o menu del sito nella pagina *Siti*): il sito con i suoi varchi,
